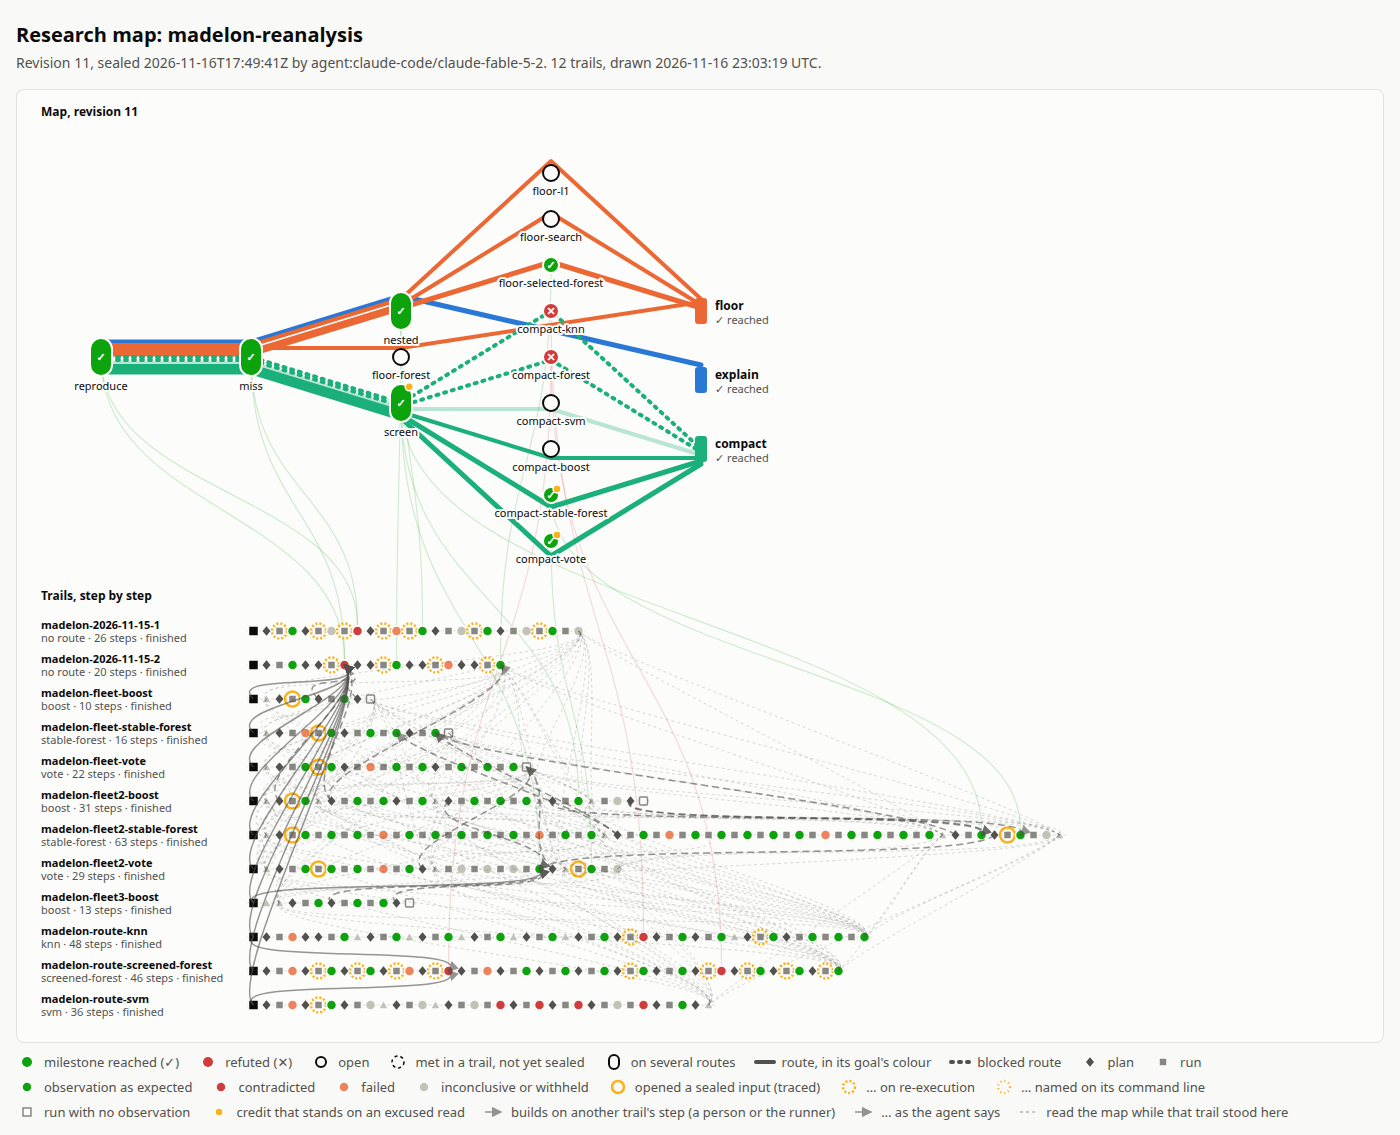
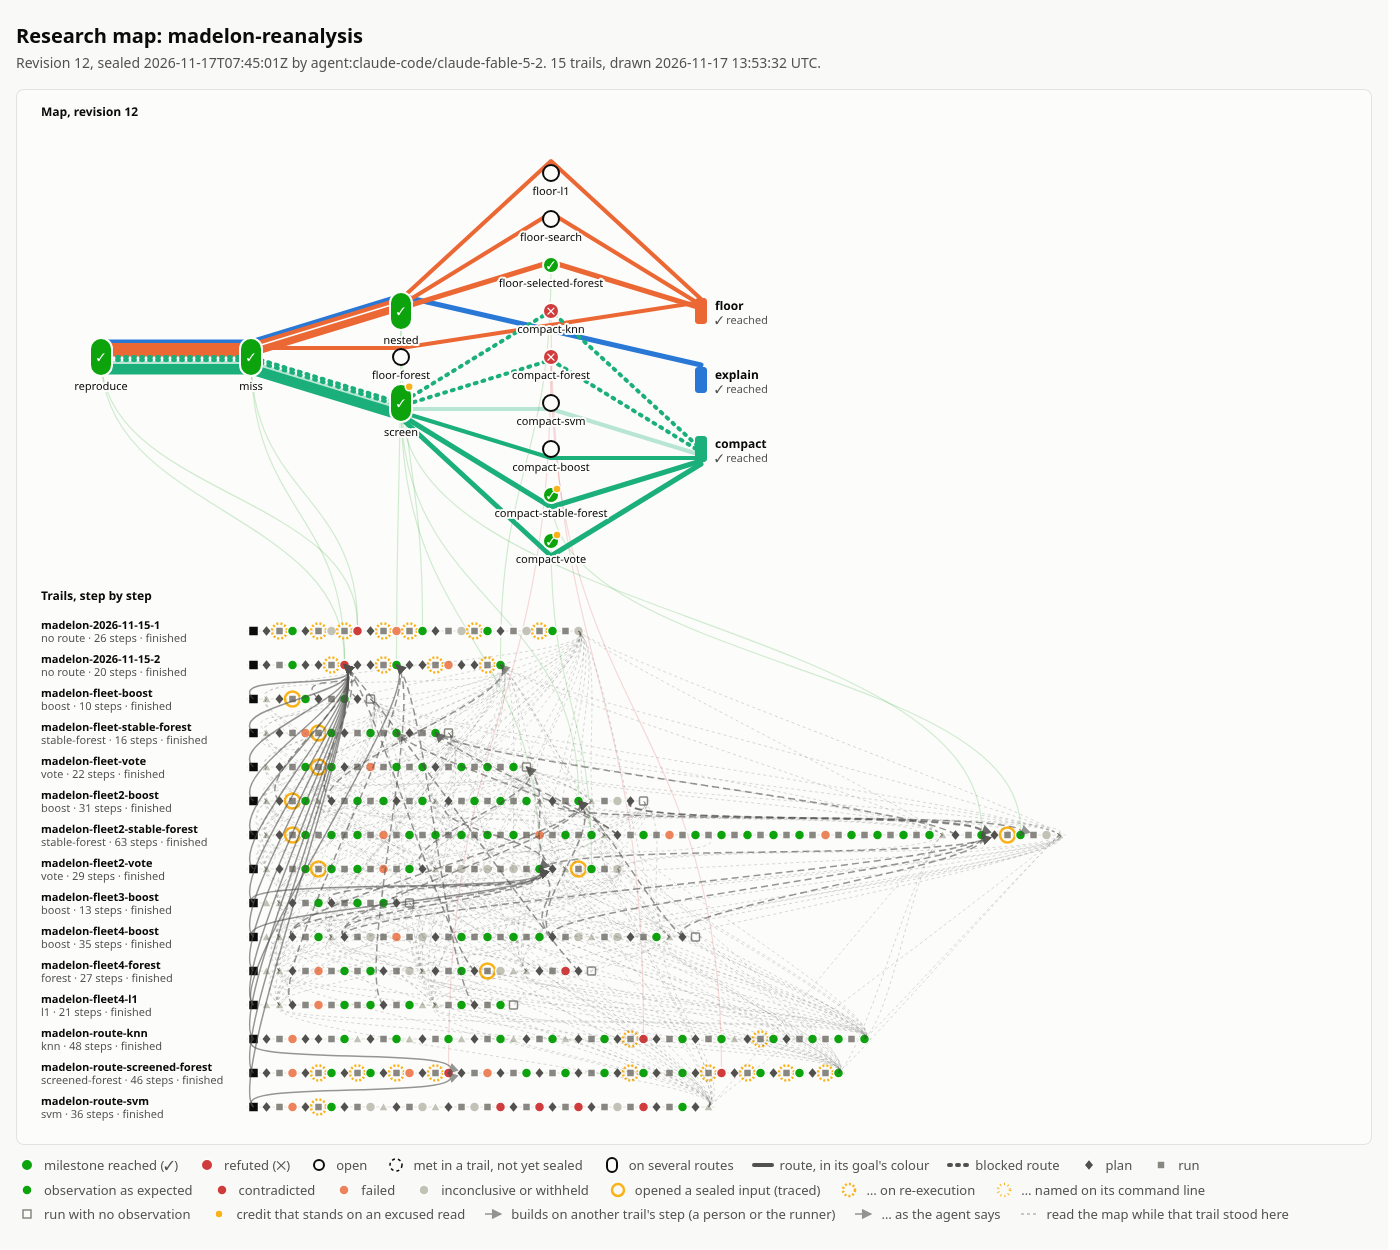
Put the second project on the pages, a Start here in the README, and it in the video
The site builds the synthetic map and copies both belief reports and the forecast scores; the
index lists the pages in reading order with current counts. The README opens with links and three
findings, and its Try-it why prints the full answer. SUBMISSION fills the URLs and gives the
second project 15 seconds of the video. The map screenshot is retaken at revision 12.

Changed region(s): [[0.0307, 0.1233, 0.7679, 0.8943], [0.0, 0.9251, 0.9214, 0.9868], [0.0, 0.0, 0.5836, 0.1233]]

diff --git a/docs/SUBMISSION.md b/docs/SUBMISSION.md
@@ -75,8 +75,9 @@ was written by AI coding agents from specs in `docs/specs/`.
 
 ## Links
 
-- Repository: `https://github.com/OWNER/provenance-notebook`
-- Pages, once published: the reviewer's page of the live trail, and the research map
+- Repository: `https://github.com/antoniomangoni/provenance-notebook`
+- Pages: `https://antoniomangoni.github.io/provenance-notebook/`, the reviewer's page of the live
+  trail, both research maps and their belief reports
 - Start at `README.md`
 
 ## Video, under three minutes
@@ -93,9 +94,9 @@ start `uv run python project.py serve research/madelon-reanalysis/map --live liv
 | 1:25 | The timeline: a measured run with its code diff and "Opened" row | Each result names the commit that produced it and the files its run opened. |
 | 1:40 | Terminal: `cat evidence/madelon-2026-11-15-1/tamper.txt` | Changing a number breaks the chain. Re-chaining passes the check but not the stored metrics file. A full rewrite fails against the head that was cited. |
 | 2:00 | `http://127.0.0.1:8077/` | Fifteen trails on the Madelon map. Stations are milestones, lines are routes, and each lane is one agent's trail. |
-| 2:15 | Hover a station with an amber mark; then the "Withdrawn" table; then `/rev/3` | Every credit is recomputed from the step files. A credit that was withdrawn stays on record with its reason, and any past revision can be opened. |
-| 2:35 | `evidence/README.md`, "The check does not show…" | What we did not find: models answered our questions as well from the raw transcript. The page was a tenth of the length. |
-| 2:50 | `README.md`, "What it does not prove" | The limits are in the README. |
+| 2:15 | Hover a station with an amber mark; then the "Withdrawn" table | Every credit is recomputed from the step files. A credit that was withdrawn stays on record with its reason. |
+| 2:30 | `site/synthetic.html`, then `site/synthetic-scores.txt` | A second project with a known truth. A second model forecast every milestone before each round. Reading the siblings won one round, reading the method another, and over 18 forecasts nothing beat a coin flip. |
+| 2:45 | `README.md`, "What it does not prove" | What we did not find: models answered our questions as well from the raw transcript. The other limits are in the README. |
 
 **For the cold reader.** Someone who has not seen the task. Give them only `site/trail.html` and
 the question "why did they change approach at step 14?". Record their answer unprompted, and

diff --git a/README.md b/README.md
@@ -18,6 +18,23 @@ The notebook has four parts:
 - **A research map.** Many trails toward shared goals, with a checker that recomputes every credit
   from the step files and records every credit that was withdrawn.
 
+## Start here
+
+- **[The pages](https://antoniomangoni.github.io/provenance-notebook/)**: the reviewer's page of a
+  live trail, the two research maps and their belief reports, all generated from the step files.
+- **[The brief's question, answered](#the-briefs-question-answered-from-a-live-trail)** from a
+  live trail, in the terminal.
+- **[What was run, and what it showed](#what-was-run-and-what-it-showed)**: 27 live trails over
+  two research projects.
+
+What we found:
+- **The record answers the brief.** `trail.py why` gives the reason for a change of approach from
+  the step files alone, and says which runs had opened the held-out file before the new plan.
+- **A model reader did as well from the raw transcript.** The page's measured advantage is its
+  length, a tenth of the transcript's.
+- **Forecasting the map was not easier than a coin flip.** On a second project with a known truth,
+  over 18 settled forecasts, neither a second model nor any code forecaster beat a coin flip.
+
 ## The brief's question, answered from a live trail
 
 An agent (GLM-5.3-Flash under Pi) was given an inherited analysis that reports a cross-validated
@@ -170,7 +187,8 @@ Requires [uv](https://docs.astral.sh/uv/). Capture's tests also need Node.js 24,
 uv sync
 uv run pytest
 uv run python trail.py check live/madelon-2026-11-15-1 --store live/store
-uv run python trail.py why   live/madelon-2026-11-15-1 --store live/store
+uv run python trail.py why   live/madelon-2026-11-15-1 step-14 --store live/store \
+  --reads research/madelon-reanalysis/retrace/madelon-2026-11-15-1.json --sealed data/heldout.csv
 uv run python trail.py facts live/madelon-2026-11-15-1 --store live/store
 scripts/site.sh site                             # the pages, then open site/index.html
 uv run python project.py serve research/madelon-reanalysis/map --live live    # http://127.0.0.1:8077/
